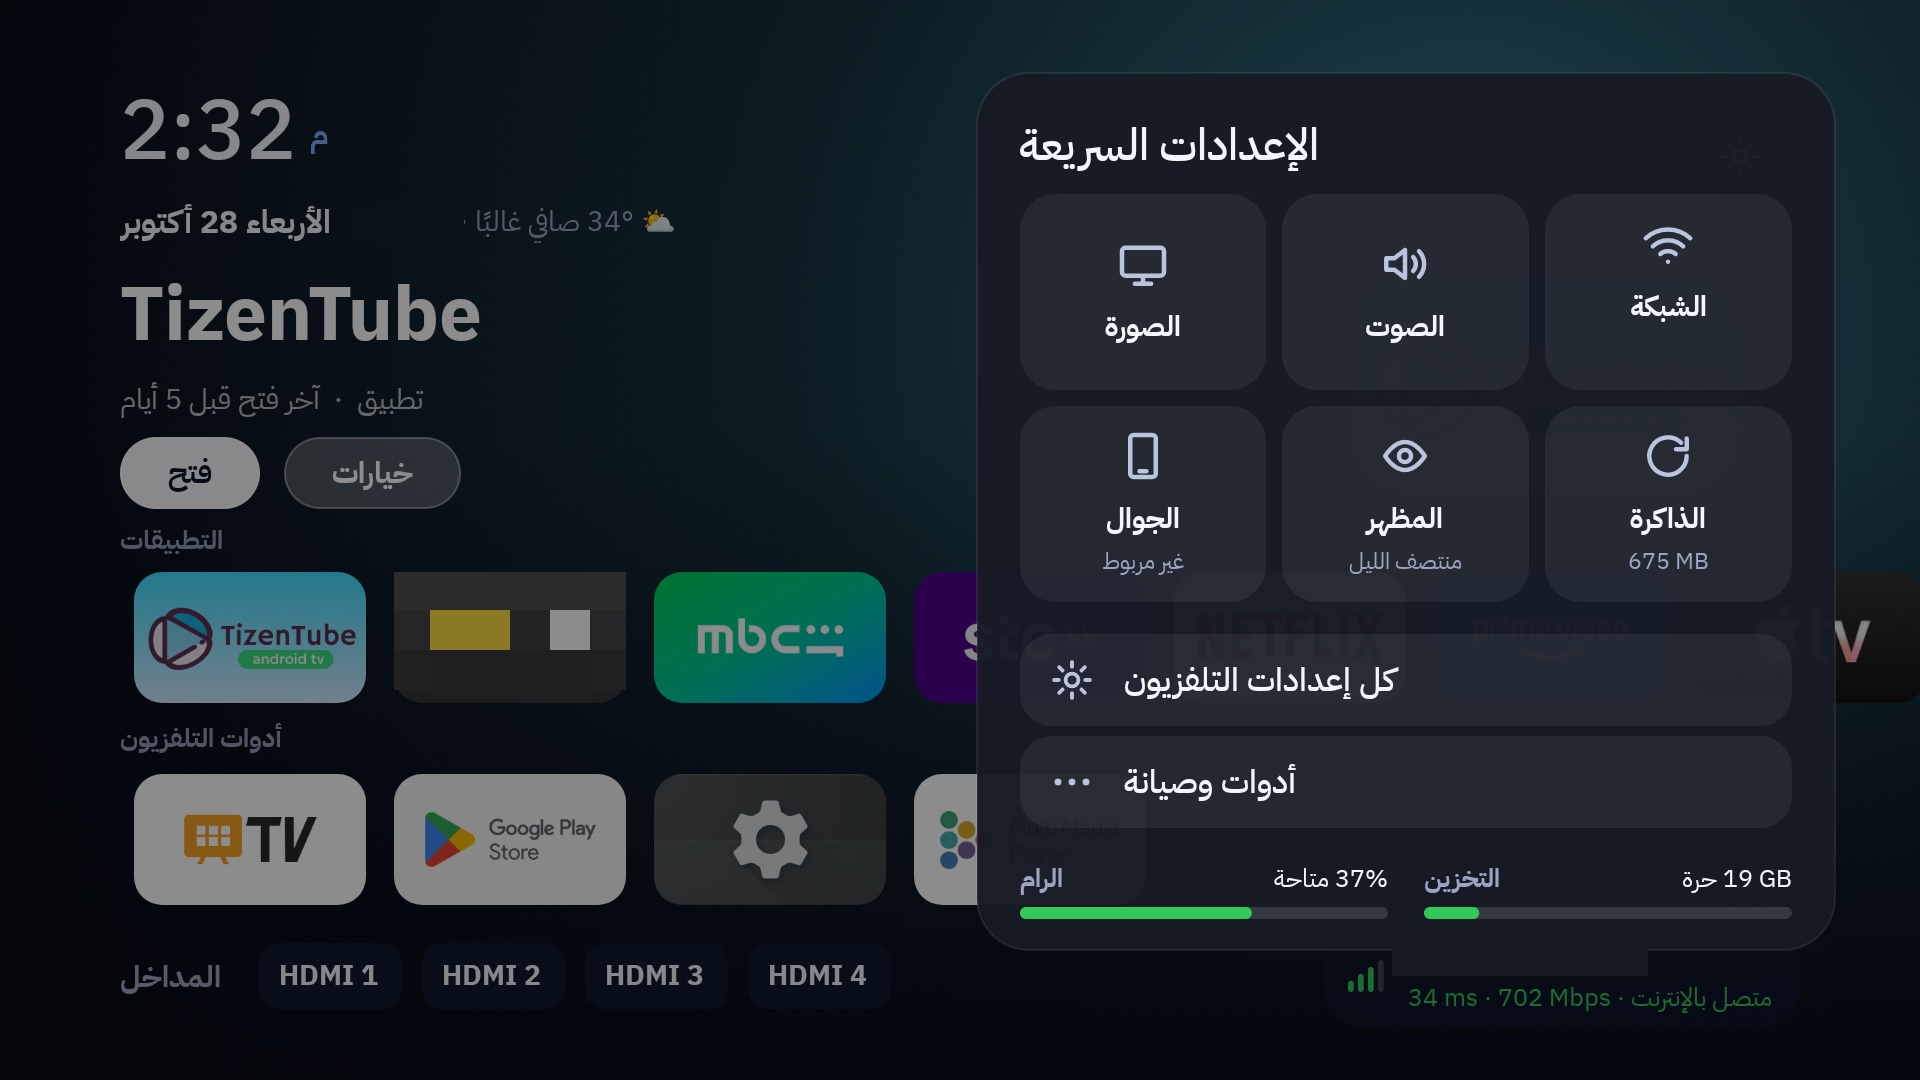
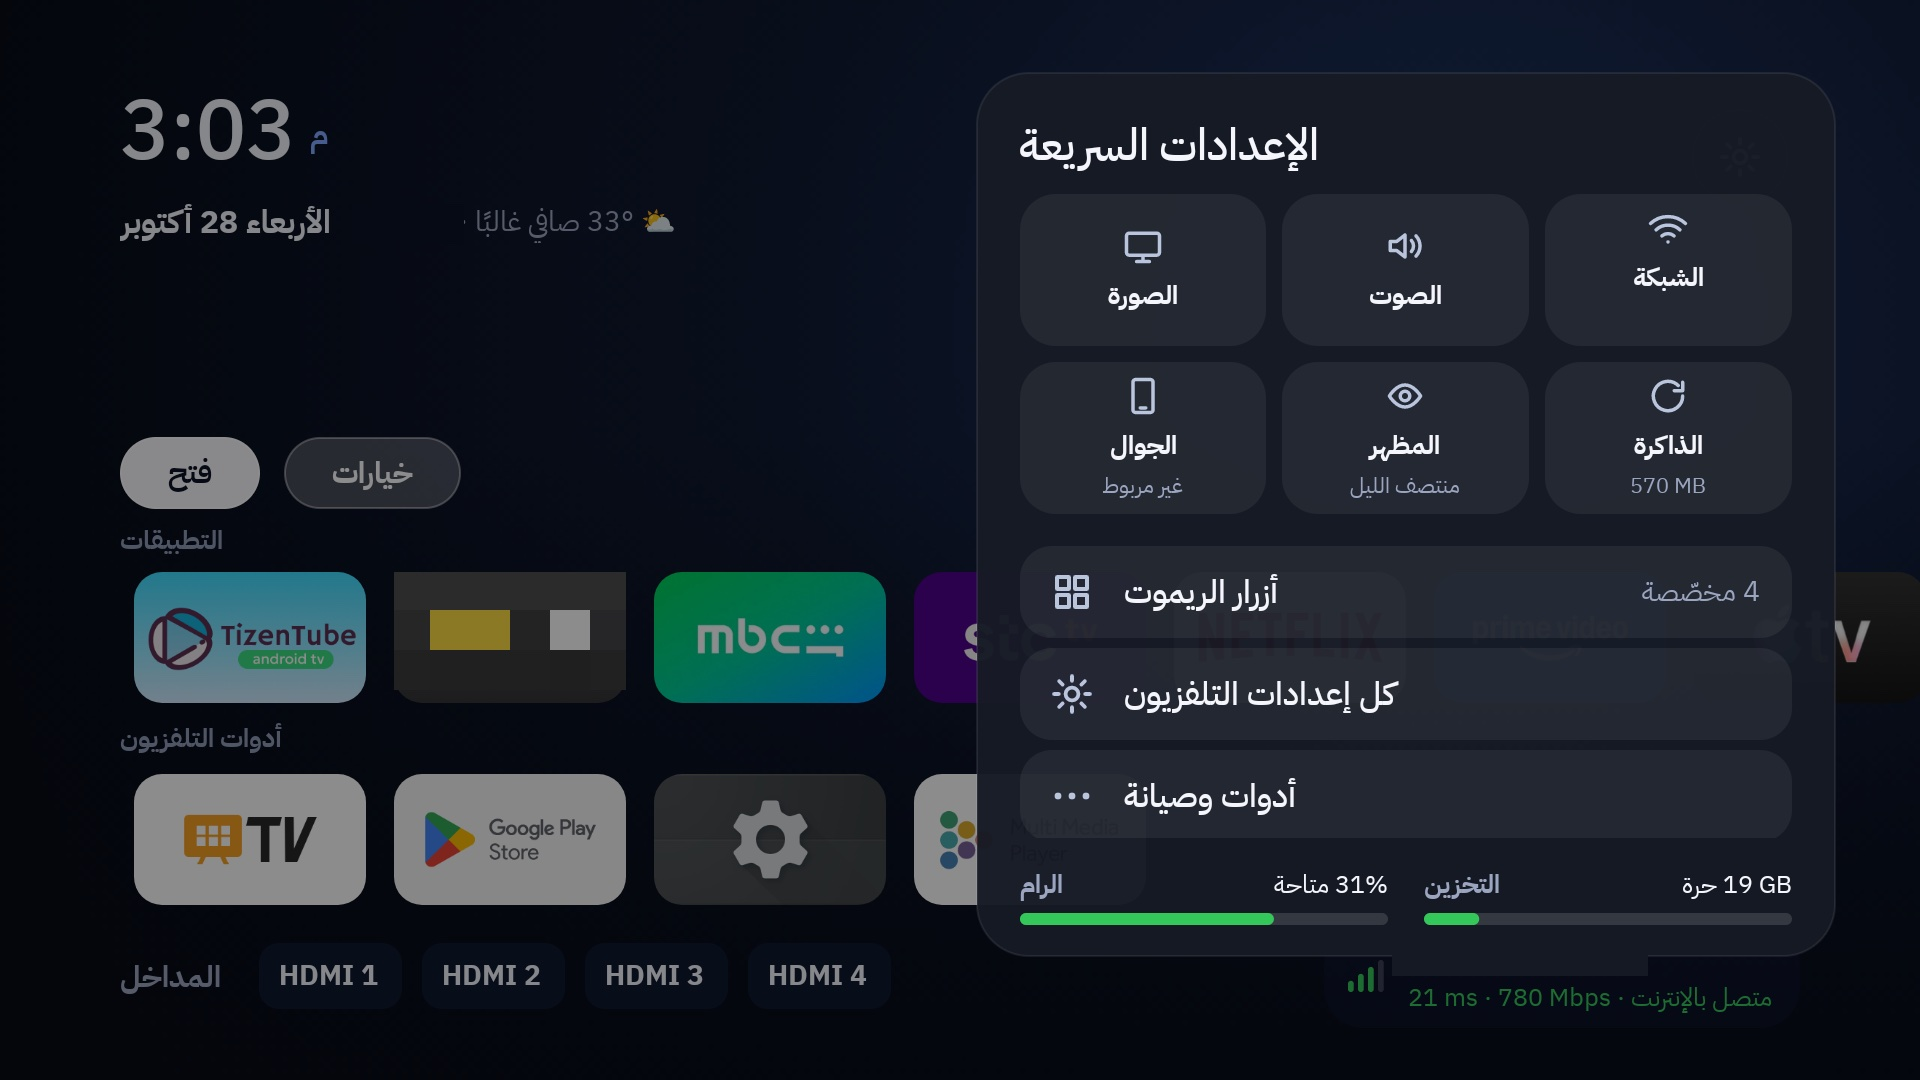
Docs and screenshots for the new features (quick-settings panel, remote buttons, themes); accessibility self-heal

diff --git a/google-tv/albrhi-tv-restore/source/src/com/albrhi/tvwidget/ControlService.java b/google-tv/albrhi-tv-restore/source/src/com/albrhi/tvwidget/ControlService.java
@@ -18,6 +18,23 @@ public class ControlService extends AccessibilityService {
 
     static boolean ready() { return inst != null; }
 
+    /**
+     * Android switches an accessibility service off when its app is force-stopped. With the permission that restore.sh grants
+     * (WRITE_SECURE_SETTINGS) the launcher switches it back on by itself, so your remote buttons never stay dead.
+     */
+    static void ensureEnabled(android.content.Context c) {
+        try {
+            if (c.checkSelfPermission("android.permission.WRITE_SECURE_SETTINGS") != android.content.pm.PackageManager.PERMISSION_GRANTED) return;
+            String me = c.getPackageName() + "/" + ControlService.class.getName();
+            android.content.ContentResolver cr = c.getContentResolver();
+            String cur = android.provider.Settings.Secure.getString(cr, android.provider.Settings.Secure.ENABLED_ACCESSIBILITY_SERVICES);
+            if (cur != null && cur.contains(me)) return;
+            android.provider.Settings.Secure.putString(cr, android.provider.Settings.Secure.ENABLED_ACCESSIBILITY_SERVICES,
+                    cur == null || cur.length() == 0 ? me : cur + ":" + me);
+            android.provider.Settings.Secure.putInt(cr, android.provider.Settings.Secure.ACCESSIBILITY_ENABLED, 1);
+        } catch (Throwable ignored) { }
+    }
+
     static ControlService get() { return inst; }
 
     @Override protected void onServiceConnected() {

diff --git a/google-tv/albrhi-widget/src/com/albrhi/tvwidget/ControlService.java b/google-tv/albrhi-widget/src/com/albrhi/tvwidget/ControlService.java
@@ -18,6 +18,23 @@ public class ControlService extends AccessibilityService {
 
     static boolean ready() { return inst != null; }
 
+    /**
+     * Android switches an accessibility service off when its app is force-stopped. With the permission that restore.sh grants
+     * (WRITE_SECURE_SETTINGS) the launcher switches it back on by itself, so your remote buttons never stay dead.
+     */
+    static void ensureEnabled(android.content.Context c) {
+        try {
+            if (c.checkSelfPermission("android.permission.WRITE_SECURE_SETTINGS") != android.content.pm.PackageManager.PERMISSION_GRANTED) return;
+            String me = c.getPackageName() + "/" + ControlService.class.getName();
+            android.content.ContentResolver cr = c.getContentResolver();
+            String cur = android.provider.Settings.Secure.getString(cr, android.provider.Settings.Secure.ENABLED_ACCESSIBILITY_SERVICES);
+            if (cur != null && cur.contains(me)) return;
+            android.provider.Settings.Secure.putString(cr, android.provider.Settings.Secure.ENABLED_ACCESSIBILITY_SERVICES,
+                    cur == null || cur.length() == 0 ? me : cur + ":" + me);
+            android.provider.Settings.Secure.putInt(cr, android.provider.Settings.Secure.ACCESSIBILITY_ENABLED, 1);
+        } catch (Throwable ignored) { }
+    }
+
     static ControlService get() { return inst; }
 
     @Override protected void onServiceConnected() {

diff --git a/google-tv/albrhi-tv-restore/source/src/com/albrhi/tvwidget/HomeActivity.java b/google-tv/albrhi-tv-restore/source/src/com/albrhi/tvwidget/HomeActivity.java
@@ -369,6 +369,7 @@ public class HomeActivity extends Activity {
         if (header == null) return;                          // emergency screen is showing
         Theme.load(this);
         if (Safe.level(this) != appliedSafe || !look().equals(appliedLook)) { recreate(); return; }
+        ControlService.ensureEnabled(this);
         Theme.onChange = new Runnable() { public void run() { applyLookLive(); } };
         ui.postDelayed(calm, 60000);                         // a full calm minute clears the crash counter
         refreshGreeting();

diff --git a/google-tv/albrhi-widget/src/com/albrhi/tvwidget/HomeActivity.java b/google-tv/albrhi-widget/src/com/albrhi/tvwidget/HomeActivity.java
@@ -369,6 +369,7 @@ public class HomeActivity extends Activity {
         if (header == null) return;                          // emergency screen is showing
         Theme.load(this);
         if (Safe.level(this) != appliedSafe || !look().equals(appliedLook)) { recreate(); return; }
+        ControlService.ensureEnabled(this);
         Theme.onChange = new Runnable() { public void run() { applyLookLive(); } };
         ui.postDelayed(calm, 60000);                         // a full calm minute clears the crash counter
         refreshGreeting();

diff --git a/google-tv/albrhi-tv-restore/source/src/com/albrhi/tvwidget/BootReceiver.java b/google-tv/albrhi-tv-restore/source/src/com/albrhi/tvwidget/BootReceiver.java
@@ -7,6 +7,7 @@ import android.content.Intent;
 /** After a restart or an app update: bring the background service (match alerts) back and re-arm the alarms. */
 public class BootReceiver extends BroadcastReceiver {
     @Override public void onReceive(Context c, Intent i) {
+        ControlService.ensureEnabled(c);
         try {
             c.startForegroundService(new Intent(c, AppService.class));
         } catch (Throwable ignored) { }

diff --git a/google-tv/albrhi-widget/src/com/albrhi/tvwidget/BootReceiver.java b/google-tv/albrhi-widget/src/com/albrhi/tvwidget/BootReceiver.java
@@ -7,6 +7,7 @@ import android.content.Intent;
 /** After a restart or an app update: bring the background service (match alerts) back and re-arm the alarms. */
 public class BootReceiver extends BroadcastReceiver {
     @Override public void onReceive(Context c, Intent i) {
+        ControlService.ensureEnabled(c);
         try {
             c.startForegroundService(new Intent(c, AppService.class));
         } catch (Throwable ignored) { }

diff --git a/google-tv/README.md b/google-tv/README.md
@@ -6,11 +6,23 @@
 > هذا المجلد مشروع منفصل عن [`../lg-webos`](../lg-webos). · This folder is separate from [`../lg-webos`](../lg-webos).
 > مشروع مستقر: غير مرتبط بأي خدمة سحابية، ولا يجمع بيانات. · Stable; no cloud service, no data collection.
 
+## لقطات · Screenshots
+
 | الشاشة الرئيسية · Home | شاشة الانتظار · Screensaver |
 |:---:|:---:|
 | ![home](docs/screenshots/home.jpg) | ![screensaver](docs/screenshots/saver.jpg) |
-| الإعدادات السريعة · Quick settings | |
-| ![settings](docs/screenshots/settings.jpg) | |
+| الإعدادات السريعة · Quick settings | أزرار الريموت بكيفك · Your own remote buttons |
+| ![settings](docs/screenshots/settings.jpg) | ![remote buttons](docs/screenshots/remote-keys.jpg) |
+| المظهر والسمات · Appearance and themes | |
+| ![appearance](docs/screenshots/appearance.jpg) | |
+
+**خمس سمات ألوان · Five colour themes** (محيط · غروب · بنفسجي · … Ocean · Sunset · Violet · …)
+
+| | | |
+|:---:|:---:|:---:|
+| ![ocean](docs/screenshots/theme-ocean.jpg) | ![sunset](docs/screenshots/theme-sunset.jpg) | ![violet](docs/screenshots/theme-violet.jpg) |
+
+*(حجبنا اسم الشبكة والمدينة وتطبيقاً شخصياً من اللقطات · Wi-Fi name, city and a personal app are blurred for privacy.)*
 
 ---
 
@@ -31,7 +43,7 @@
 | **ربط الجوال** | صفحة ويب على شبكة البيت: ريموت كامل (أسهم، OK، صوت، كتابة، تشغيل رابط فيديو، إطفاء الشاشة)، تثبيت وحذف وفتح التطبيقات، ورفع APK. رمز ربط من 6 أرقام لكل جهاز، وكل تثبيت يحتاج تأكيد على التلفزيون. |
 | **شاشة الانتظار** | Albrhi Barca (اسمها القديم): ساعة كبيرة هادئة بألوان السمة تتحرك ببطء لحماية الشاشة. |
 | **تنظيف الذاكرة** | يدوي أو تلقائي قبل فتح تطبيق لو الرام الحرة أقل من 300 ميجا (يغلق الخلفية فقط). |
-| **ثبات** | شاشة طوارئ لو انهار اللانشر 3 مرات خلال دقيقتين، ونسخة احتياطية يومية اختيارية للترتيب والأسماء. |
+| **ثبات** | شاشة طوارئ لو انهار اللانشر 3 مرات خلال دقيقتين، ونسخة احتياطية يومية اختيارية للترتيب والأسماء والأزرار المخصصة، وخدمة الإتاحة تعيد تفعيل نفسها لو أطفأها النظام. |
 | **تقليل الإعلانات والتطبيقات الزائدة** | يعطّل تطبيقات Haier/MediaTek الزائدة وبعض تطبيقات Google عن المستخدم الحالي. |
 
 ### الأداء (قياس على التلفزيون نفسه)
@@ -107,7 +119,7 @@ An Android app (plain Java, no Gradle) that replaces the Google TV home screen o
 | **Phone pairing** | A web page on your home network: full remote (arrows, OK, volume, typing, play a video link, screen off), install/uninstall/open apps, APK upload. A 6-digit pairing code per device, and every install needs confirmation on the TV. |
 | **Screensaver** | Albrhi Barca (its old name): a large calm clock in the theme colours, drifting slowly to protect the panel. |
 | **Memory cleaner** | Manual, or automatic before launching an app when free RAM < 300 MB (background apps only). |
-| **Resilience** | Emergency screen if the launcher crashes 3 times in 2 minutes; optional daily backup of layout and names. |
+| **Resilience** | Emergency screen if the launcher crashes 3 times in 2 minutes; optional daily backup of layout, names and custom buttons; the accessibility service switches itself back on if Android turns it off. |
 | **Less bloat** | Disables extra Haier/MediaTek apps and some Google apps for the current user. |
 
 ### Performance (measured on the TV)

diff --git a/AGENTS.md b/AGENTS.md
@@ -94,7 +94,7 @@ Revert: `./revert.sh` (add `--full` for a deeper revert) puts back Google TV lau
 - Screensaver: `BarcaDream` set via `settings put secure screensaver_components`. `PreviewActivity` shows it as a normal screen (`adb shell am start -n com.albrhi.tvwidget/.PreviewActivity`) — useful for screenshots.
 - Phone control: `RemoteServer` (HTTP, port 8765, 6-digit PIN pairing → token) + `ControlService` (accessibility service for keys/typing). Installs go through `Installer`/`InstallReceiver`; the TV still asks for confirmation.
 - Quick settings: `Panel.java` (side panel: tile grid + rows + switches + colour swatches; items are `Sheet.Item` with `.tile()`, `.toggle(on)`, `.stay()`, `Item.swatches()`; pages are `Panel.Builder`s that re-run on every redraw, so switches/values stay in sync and the panel stays open; `Panel.refresh()` redraws after a dialog; settings apply live: `Theme.set/Safe.setLevel` call `Theme.onChange`, which `HomeActivity.applyLookLive()` handles without recreating (ambient re-theme, top block, greeting, margins); `applyLookIfChanged()` is only a fallback for changes made while Home was not on screen), built in `QuickSettings.java` (main, `appearance()`, `more()`). `Dropdown`/`Sheet` still style the long-press app menu and other popups.
-- Custom remote buttons: `KeyMap.java` (JSON in prefs `keymap`, exported in layout.json as `keymap`), hooked at the top of `ControlService.onKeyEvent` (accessibility key filter sees keys before the TV's own HotKey software; mapped keys launch the app and are consumed, protected keys are never touched). `LearnDialog` captures the next key; pages `remoteKeys/addKey/pickApp/keyDetail` in `QuickSettings`. Note: keys injected with `adb shell input keyevent` do NOT pass the accessibility filter, so test with the physical remote.
+- Custom remote buttons: `KeyMap.java` (JSON in prefs `keymap`, exported in layout.json as `keymap`), hooked at the top of `ControlService.onKeyEvent` (accessibility key filter sees keys before the TV's own HotKey software; mapped keys launch the app and are consumed, protected keys are never touched). `LearnDialog` captures the next key; pages `remoteKeys/addKey/pickApp/keyDetail` in `QuickSettings`. `ControlService.ensureEnabled()` re-enables the accessibility service itself (needs `WRITE_SECURE_SETTINGS`, granted by `restore.sh`) because Android turns it off on force-stop. Note: keys injected with `adb shell input keyevent` do NOT pass the accessibility filter, so test with the physical remote.
 - Look and options: `Theme.java` (5 palettes + toggles in the `ui` prefs; `WidgetView.GOLD/GARNET/BLUE` are now mutable and set from the theme; changing a setting re-creates the home). Quick settings → Appearance is built in `QuickSettings.appearance()`.
 - Matches/weather: `Fixtures.java` (TheSportsDB; `TEAM_ID`), `Weather.java` (Open-Meteo, IP geolocation), `Alerts.java` + `AlarmReceiver` (exact alarms, overlay banner). **Sports are OFF by default** (`Theme.sports`): `Fixtures.refresh`, `Alerts.schedule` and the live poll in `AppService` all return early when it is off.
 - Smoothness: tile pictures are pre-rendered once (`HomeActivity.makeTile`, rounded, exact size); `Ambient` cross-fades two ImageViews with render-thread alpha. Measure with `albrhi-tv-restore/selftest.sh` (frame stats from `dumpsys gfxinfo`).

diff --git a/README.md b/README.md
@@ -8,7 +8,7 @@
 | | 🔴 [`lg-webos/`](lg-webos) | 🟢 [`google-tv/`](google-tv) |
 |---|---|---|
 | **التلفزيون · TV** | LG webOS 7.5، مروّت · rooted (Homebrew Channel) | Haier MatrixTV BE — Google TV / Android 14 |
-| **ما هو · What** | شاشة رئيسية ويب (HTML/JS) + خدمة جذرية + بطاقات تنبيه دوري الأبطال فوق أي تطبيق + شاشة توقف | لانشر Android هادئ (Albrhi Home) بسمات ألوان قابلة للتغيير + شاشة انتظار + ربط الجوال + حزمة استرجاع |
+| **ما هو · What** | شاشة رئيسية ويب (HTML/JS) + خدمة جذرية + بطاقات تنبيه دوري الأبطال فوق أي تطبيق + شاشة توقف | لانشر Android هادئ (Albrhi Home): سمات ألوان، **أزرار ريموت بكيفك** (اربط أي زر بأي تطبيق)، إعدادات سريعة جانبية، شاشة انتظار، ربط الجوال، وحزمة استرجاع |
 | **اللغة · Stack** | JavaScript (بدون بناء · no build), Node.js | Java (Android SDK بدون Gradle · without Gradle) |
 | **الأدوات · Tooling** | telnet بورت 23، `scripts/*.sh`، `npm test` | `adb`، `build.sh`، `restore.sh` |
 | **الشرح · Docs** | [lg-webos/README.md](lg-webos/README.md) + [`docs/`](lg-webos/docs) | [google-tv/README.md](google-tv/README.md) |
@@ -30,8 +30,10 @@
 |:---:|:---:|
 | ![Google TV home](google-tv/docs/screenshots/home.jpg) | ![Google TV screensaver](google-tv/docs/screenshots/saver.jpg) |
 | الشاشة الرئيسية · Home | شاشة الانتظار · Screensaver |
-| ![Google TV quick settings](google-tv/docs/screenshots/settings.jpg) | |
-| الإعدادات السريعة · Quick settings | |
+| ![Google TV quick settings](google-tv/docs/screenshots/settings.jpg) | ![Google TV remote buttons](google-tv/docs/screenshots/remote-keys.jpg) |
+| الإعدادات السريعة · Quick settings | أزرار الريموت بكيفك · Your own remote buttons |
+| ![Google TV appearance](google-tv/docs/screenshots/appearance.jpg) | ![Google TV theme](google-tv/docs/screenshots/theme-sunset.jpg) |
+| المظهر والسمات · Appearance and themes | سمة «غروب» · "Sunset" theme |
 
 *(حجبنا اسم الشبكة والمدينة وبعض التطبيقات من اللقطات حفاظاً على الخصوصية · Wi-Fi name, city and a few apps are blurred for privacy.)*
 

diff --git a/google-tv/albrhi-tv-restore/README.md b/google-tv/albrhi-tv-restore/README.md
@@ -63,6 +63,7 @@
 - **كيف يشتغل:** خدمة الإتاحة `Albrhi Remote Control` ترى كل ضغطة قبل برنامج التلفزيون. إذا الزر مربوط تفتح التطبيق وتبلع الضغطة، فما يشتغل أمر النظام الأصلي. الأزرار غير المربوطة تمر كما هي.
 - **أزرار محمية:** الأسهم، OK، رجوع، Home، التشغيل، الصوت/الكتم، Esc، الترس. ما تقدر تُربط لتجنّب قفل الريموت على نفسك.
 - **اكتشاف مهم:** في تلفزيون Haier/MediaTek هذه الأزرار يعالجها النظام (`com.mediatek.tv.service` عبر `GLOBAL_BUTTON`). زر نتفلكس مثلاً يصل كمفتاح `KEYCODE_STEM_1` (265). زر «شاهد» الأصلي كان يشغّل `com.haier.apps/.ShahidActivity` وهذا معطّل عندنا (`restore.sh`)، فصار لا يفتح شي. الآن اربطه بأي تطبيق (مثلاً شاهد نفسه).
+- **تفعيل ذاتي:** لو أُوقف التطبيق قسراً يطفي أندرويد خدمة الإتاحة. `restore.sh` يمنح الإذن `WRITE_SECURE_SETTINGS` (لمرة وحدة) فيعيد اللانشر تفعيلها لحاله عند فتحه أو بعد الإقلاع، وما تبقى الأزرار ميتة. (يدوياً: `adb shell pm grant com.albrhi.tvwidget android.permission.WRITE_SECURE_SETTINGS`).
 - **الحفظ:** مع النسخة الاحتياطية (`layout.json` حقل `keymap`) وتُستعاد مع `restore.sh`.
 - **لو ما وصل الزر** («ما وصل أي زر» بعد 20 ثانية): تأكد أن خدمة الإتاحة شغّالة (إمكانية الوصول)، وأن الريموت متصل. بعض الأزرار قد يبلعها النظام قبل أن تصلنا.
 - **الكود:** `KeyMap.java` (الربط والاعتراض والتشغيل)، `LearnDialog.java` (نافذة «اضغط الزر»)، `ControlService.onKeyEvent`، وصفحات القائمة في `QuickSettings.java`.
